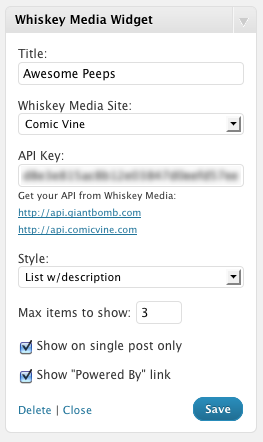
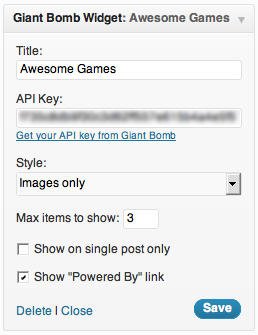
Clearly I have no idea how SVN works
git-svn-id: https://plugins.svn.wordpress.org/whiskey-media-widget/trunk@443130 b8457f37-d9ea-0310-8a92-e5e31aec5664

diff --git a/abstractwmwidget.php b/abstractwmwidget.php
@@ -1,0 +1,239 @@
+<?php
+/*
+Abstracted Whiskey Media widget (to be subclass'd by the "real" widgets)
+--
+Copyright 2011 Michael Enger (email : mike@thelonelycoder.com)
+
+This program is free software; you can redistribute it and/or modify
+it under the terms of the GNU General Public License, version 2, as 
+published by the Free Software Foundation.
+
+This program is distributed in the hope that it will be useful,
+but WITHOUT ANY WARRANTY; without even the implied warranty of
+MERCHANTABILITY or FITNESS FOR A PARTICULAR PURPOSE.  See the
+GNU General Public License for more details.
+
+You should have received a copy of the GNU General Public License
+along with this program; if not, write to the Free Software
+Foundation, Inc., 51 Franklin St, Fifth Floor, Boston, MA  02110-1301  USA
+*/
+
+class AbstractWMWidget extends WP_Widget {
+	
+	protected $styles = array(
+		'Basic list',
+		'List w/images',
+		'List w/description',
+		'Images only'
+	);
+	
+	protected $config = array(
+		'site' => '@todo',
+		'sitename' => '@todo',
+		'resource' => '@todo'
+	);
+
+	function form( $instance ) {
+		$title = isset( $instance['title'] ) ? esc_attr( $instance['title'] ) : '';
+		$api_key = isset( $instance['api_key'] ) ? esc_attr( $instance['api_key'] ) : '';
+		$style = isset( $instance['style'] ) ? esc_attr( $instance['style'] ) : 1;
+		$single_post_only = isset( $instance['single_post_only'] ) ? esc_attr( $instance['single_post_only'] ) : 1;
+		$max_items = isset( $instance['max_items'] ) ? esc_attr( $instance['max_items'] ) : 3;
+		$show_powered_by = isset( $instance['show_powered_by'] ) ? esc_attr( $instance['show_powered_by'] ) : 1;
+		?>
+			
+			<p><label for="<?php print $this->get_field_id('title'); ?>">
+				<?php _e('Title'); ?>:
+				<input 	id="<?php print $this->get_field_id('title'); ?>"
+						class="widefat"
+						type="text"
+						name="<?php print $this->get_field_name('title'); ?>"
+						value="<?php print $title; ?>" />
+			</label></p>
+			
+			<p><label for="<?php print $this->get_field_id('api_key'); ?>">
+				<?php _e('API Key'); ?>:
+				<input 	id="<?php print $this->get_field_id('api_key'); ?>"
+						class="widefat"
+						type="text"
+						name="<?php print $this->get_field_name('api_key'); ?>"
+						value="<?php print $api_key; ?>" />
+				<small>
+					<a href="http://api.<?php print $this->config['site']; ?>.com">Get your API key from <?php print $this->config['sitename']?></a>
+				</small>
+			</label></p>
+			
+			<p><label for="<?php print $this->get_field_id('style'); ?>">
+				<?php _e('Style'); ?>:
+				<select id="<?php print $this->get_field_id('style'); ?>"
+						class="widefat"
+						name="<?php print $this->get_field_name('style'); ?>">
+					<?php foreach ( $this->styles as $key => $value ) {
+						?><option value="<?php print $key; ?>" <?php if ( $key == $style) print 'selected="selected"'; ?>><?php print $value; ?></option><?php
+					}?>
+				</select>
+			</label></p>
+			
+			<p><label for="<?php print $this->get_field_id('max_items'); ?>">
+				<?php _e('Max items to show'); ?>:
+				<input 	id="<?php print $this->get_field_id('max_items'); ?>"
+						type="text"
+						name="<?php print $this->get_field_name('max_items'); ?>"
+						size="3"
+						value="<?php print $max_items != 0 ? $max_items : ''; ?>" />
+			</label></p>
+			
+			<p><label for="<?php print $this->get_field_id('single_post_only'); ?>">
+				<input 	id="<?php print $this->get_field_id('single_post_only'); ?>"
+						type="checkbox"
+						name="<?php print $this->get_field_name('single_post_only'); ?>"
+						<?php if ( $single_post_only ) print 'checked="checked"'; ?> />
+				<?php _e('Show on single post only'); ?><br />
+			</label></p>
+			
+			<p><label for="<?php print $this->get_field_id('show_powered_by'); ?>">
+				<input 	id="<?php print $this->get_field_id('show_powered_by'); ?>"
+						type="checkbox"
+						name="<?php print $this->get_field_name('show_powered_by'); ?>"
+						<?php if ( $show_powered_by ) print 'checked="checked"'; ?> />
+				<?php _e('Show "Powered By" link'); ?><br />
+			</label></p>
+		<?php
+	}
+
+	function update( $new_instance, $old_instance ) {
+		$instance = $old_instance;
+		$instance['title'] = strip_tags( $new_instance['title'] );
+		$instance['api_key'] = trim( $new_instance['api_key'] );
+		$instance['style'] = trim( $new_instance['style'] );
+		$instance['site'] = trim( $new_instance['site'] );
+		$instance['max_items'] = intval( $new_instance['max_items'] );
+		$instance['single_post_only'] = isset( $new_instance['single_post_only'] ) ? 1 : 0;
+		$instance['show_powered_by'] = isset( $new_instance['show_powered_by'] ) ? 1 : 0;
+		return $instance;
+	}
+
+	function widget( $args, $instance ) {
+		global $wp_query;
+		extract( $args );
+		
+		$api_key = $instance['api_key'];
+		$title = !empty( $instance['title'] ) ? apply_filters( 'widget_title', $instance['title'] ) : $this->config['sitename'];
+		$items = array();
+		
+		// Fetch items
+		if ( $wp_query->is_single ) {
+			$items = $this->getItemsByTags( $api_key, wp_get_post_tags( $wp_query->post->ID ), $instance['max_items'] );
+		} elseif ( !$instance['single_post_only'] ) {
+			$items = $this->getItemsByTags( $api_key, get_tags( array( 'orderby' => 'count', 'order' => 'DESC' ) ), $instance['max_items'] );
+		}
+		
+		// No point in showing no items
+		if ( empty( $items ) ) {
+			return;
+		}
+		
+		print $before_widget;
+		?>
+			<?php if ( !empty( $title ) ) echo $before_title . $title . $after_title; ?>
+			
+			<ul class="wmwidget-items">
+				<?php foreach ( $items as $i => $item ) { ?>
+					<li id="wmwidget-item-<?php print $i; ?>" class="wmwidget-item">
+						<?php
+						switch ( $instance['style'] ) {
+							case 0: // Basic list
+								?> <h4 class="wmwidget-title"><a href="<?php print $item->site_detail_url; ?>"><?php print $item->name; ?></a></h4> <?php
+							break;
+							
+							case 1: // List w/images
+								?>
+								<h4 class="wmwidget-title"><a href="<?php print $item->site_detail_url; ?>"><?php print $item->name; ?></a></h4>
+								<a href="<?php print $item->site_detail_url; ?>"><img class="wmwidget-thumbnail" src="<?php print $item->image->thumb_url; ?>" alt="<?php print esc_attr( $item->name ); ?>" /></a>
+								<?php
+							break;
+							
+							case 2: // List w/description
+								?>
+								<h4 class="wmwidget-title"><a href="<?php print $item->site_detail_url; ?>"><?php print $item->name; ?></a></h4>
+								<p class="wmwidget-description"><?php print $item->deck; ?></p>
+								<?php
+							break;
+							
+							case 3: // Images only
+								?>
+								<a href="<?php print $item->site_detail_url; ?>"><img class="wmwidget-thumbnail" src="<?php print $item->image->thumb_url; ?>" alt="<?php print esc_attr( $item->name ); ?>" /></a>
+								<?php
+							break;
+						}
+						?>
+					</li>
+				<?php }
+				?>
+			</ul>
+			<?php if ( $instance['show_powered_by'] ) { ?><em class="wmwidget-footer">Powered by <a href="http://<?php print $this->config['site']; ?>.com"><?php print $this->config['sitename']; ?></a></em> <?php } ?>
+		<?php
+		
+		print $after_widget;
+	}
+	
+	/**
+	* Get a list of items by tags.
+	* @param $api_key Whiskey Media API key
+	* @param $tags    List of WP tags
+	* @param $limit   Max amount of records to get
+	* @return array   List of items
+	**/
+	protected function getItemsByTags( $api_key, $tags, $limit = null ) {
+		$items = array();
+		
+		foreach ( $tags as $tag ) {
+			// Fetch the items
+			$result = self::apiCall( $api_key, $tag->name );
+			
+			// Bail
+			if ( $result->status_code !== 1 ) {
+				//print "<strong>Error:</strong> Call to WM site {$site} ({$tag->name}) returned with status code {$result->status_code}"; // @debug
+				continue;
+			}
+			
+			// Get the first item
+			if ( !empty( $result->results ) ) {
+				$item = $result->results[0];
+				if ( !array_key_exists( $item->id, $items ) )
+					$items[$item->id] = $item;
+			}
+			
+			// To the limit and nothing more
+			if ( $limit && count( $items ) == $limit ) break;
+		}
+		
+		return $items;
+	}
+	
+	/**
+	* Make a call to the Whiskey Media API
+	* @param $api_key  Whiskey Media API key
+	* @param $name     Name to query for
+	* @return array    List of items
+	**/
+	protected function apiCall( $api_key, $name ) {
+		
+		// Build URL
+		$url = "http://api.{$this->config['site']}.com/search/" .
+			'?api_key='   . urlencode( $api_key ) .
+			'&resources=' . urlencode( $this->config['resource'] ) .
+			'&query='     . urlencode( $name ) .
+			'&format='    . 'json';
+		
+		// Contact the server
+		$ch = curl_init();
+		curl_setopt( $ch, CURLOPT_URL, $url );
+		curl_setopt( $ch, CURLOPT_HEADER, 0 );
+		curl_setopt( $ch, CURLOPT_RETURNTRANSFER, true );
+		$data = curl_exec( $ch );
+		curl_close( $ch );
+		
+		return json_decode( $data );
+	}
+}

diff --git a/comicvinewidget.php b/comicvinewidget.php
@@ -1,0 +1,32 @@
+<?php
+/*
+Comic Vine variant of the Whiskey Media widget.
+--
+Copyright 2011 Michael Enger (email : mike@thelonelycoder.com)
+
+This program is free software; you can redistribute it and/or modify
+it under the terms of the GNU General Public License, version 2, as 
+published by the Free Software Foundation.
+
+This program is distributed in the hope that it will be useful,
+but WITHOUT ANY WARRANTY; without even the implied warranty of
+MERCHANTABILITY or FITNESS FOR A PARTICULAR PURPOSE.  See the
+GNU General Public License for more details.
+
+You should have received a copy of the GNU General Public License
+along with this program; if not, write to the Free Software
+Foundation, Inc., 51 Franklin St, Fifth Floor, Boston, MA  02110-1301  USA
+*/
+
+class ComicVine_Widget extends AbstractWMWidget {
+	
+	protected $config = array(
+		'site' => 'comicvine',
+		'sitename' => 'Comic Vine',
+		'resource' => 'character'
+	);
+	
+	function ComicVine_Widget() {
+		parent::WP_Widget( false, "Comic Vine Widget", array( 'description' => "Shows a list of comic book characters based on the post tags." )  );
+	}
+}

diff --git a/animevicewidget.php b/animevicewidget.php
@@ -1,0 +1,32 @@
+<?php
+/*
+Anime Vice variant of the Whiskey Media widget.
+--
+Copyright 2011 Michael Enger (email : mike@thelonelycoder.com)
+
+This program is free software; you can redistribute it and/or modify
+it under the terms of the GNU General Public License, version 2, as 
+published by the Free Software Foundation.
+
+This program is distributed in the hope that it will be useful,
+but WITHOUT ANY WARRANTY; without even the implied warranty of
+MERCHANTABILITY or FITNESS FOR A PARTICULAR PURPOSE.  See the
+GNU General Public License for more details.
+
+You should have received a copy of the GNU General Public License
+along with this program; if not, write to the Free Software
+Foundation, Inc., 51 Franklin St, Fifth Floor, Boston, MA  02110-1301  USA
+*/
+
+class AnimeVice_Widget extends AbstractWMWidget {
+	
+	protected $config = array(
+		'site' => 'animevice',
+		'sitename' => 'Anime Vice',
+		'resource' => 'character'
+	);
+	
+	function AnimeVice_Widget() {
+		parent::WP_Widget( false, "Anime Vice Widget", array( 'description' => "Shows a list of anime characters based on the post tags." ) );
+	}
+}

diff --git a/giantbombwidget.php b/giantbombwidget.php
@@ -1,0 +1,32 @@
+<?php
+/*
+Giant Bomb variant of the Whiskey Media widget.
+--
+Copyright 2011 Michael Enger (email : mike@thelonelycoder.com)
+
+This program is free software; you can redistribute it and/or modify
+it under the terms of the GNU General Public License, version 2, as 
+published by the Free Software Foundation.
+
+This program is distributed in the hope that it will be useful,
+but WITHOUT ANY WARRANTY; without even the implied warranty of
+MERCHANTABILITY or FITNESS FOR A PARTICULAR PURPOSE.  See the
+GNU General Public License for more details.
+
+You should have received a copy of the GNU General Public License
+along with this program; if not, write to the Free Software
+Foundation, Inc., 51 Franklin St, Fifth Floor, Boston, MA  02110-1301  USA
+*/
+
+class GiantBomb_Widget extends AbstractWMWidget {
+	
+	protected $config = array(
+		'site' => 'giantbomb',
+		'sitename' => 'Giant Bomb',
+		'resource' => 'game'
+	);
+	
+	function GiantBomb_Widget() {
+		parent::WP_Widget( false, "Giant Bomb Widget", array( 'description' => "Shows a list of games based on the post tags." ) );
+	}
+}
